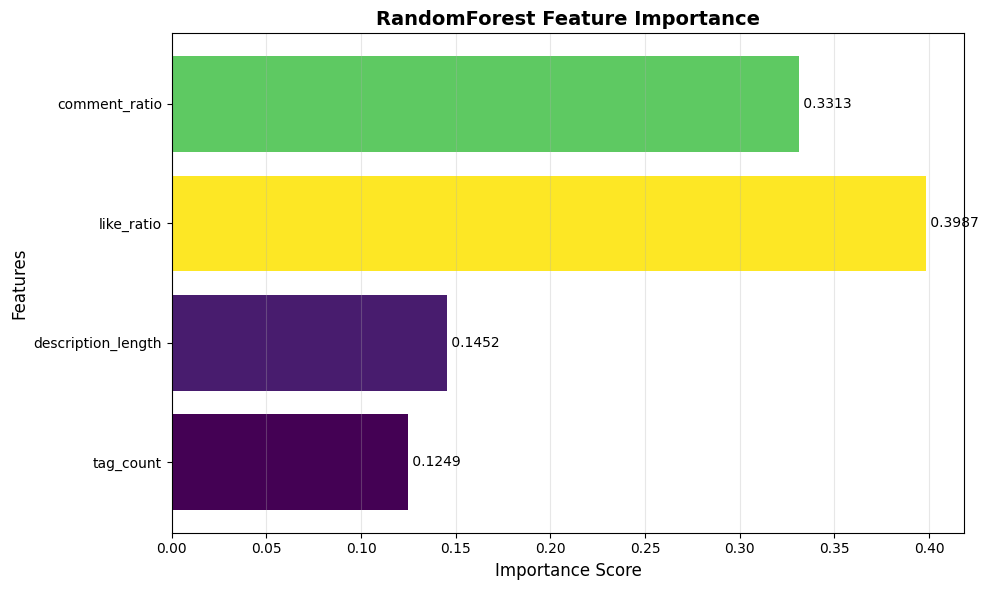
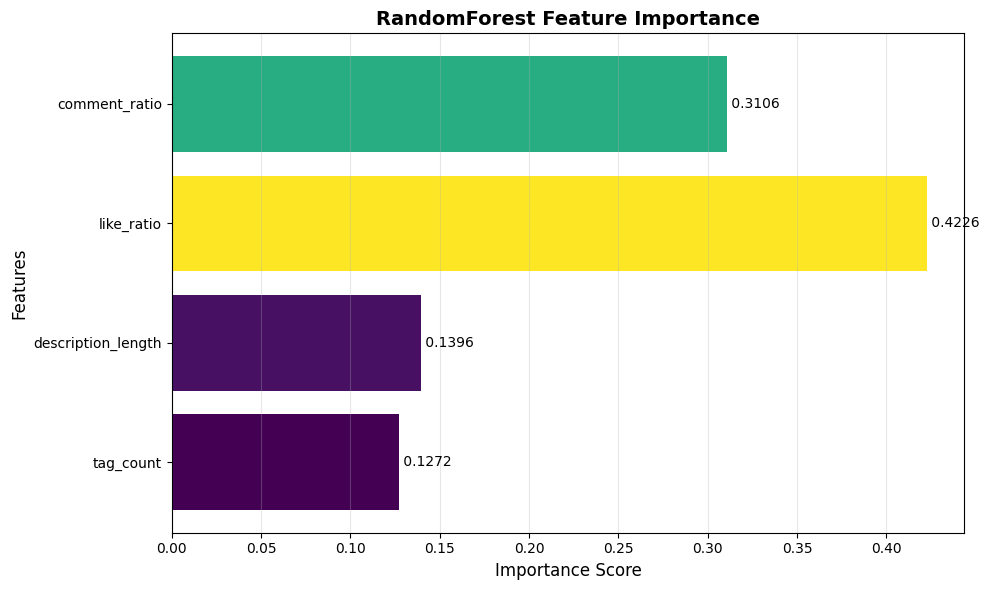
Fix dataset

diff --git a/DS200.M21-Big-Data/FINAL PROJECT/app/producer_youtube.py b/DS200.M21-Big-Data/FINAL PROJECT/app/producer_youtube.py
@@ -5,12 +5,33 @@ Simulates real-time video uploads and publishes them to Kafka.
 
 Usage:
     python3 -m app.producer_youtube --kafka-servers localhost:9092 --topic youtube_videos --rate 1
+    python3 -m app.producer_youtube --source youtube-api --query "music" --poll-interval 60
 """
 import argparse
 import json
+import os
 import time
 import random
-from datetime import datetime
+from datetime import datetime, timezone
+
+import requests
+
+
+def load_env_file(env_path: str = ".env"):
+    """Load KEY=VALUE pairs from a local .env file into environment variables."""
+    if not os.path.isfile(env_path):
+        return
+
+    with open(env_path, "r", encoding="utf-8") as f:
+        for line in f:
+            stripped = line.strip()
+            if not stripped or stripped.startswith("#") or "=" not in stripped:
+                continue
+            key, value = stripped.split("=", 1)
+            key = key.strip()
+            value = value.strip().strip('"').strip("'")
+            if key and key not in os.environ:
+                os.environ[key] = value
 
 def create_synthetic_video():
     """Generate a synthetic YouTube video record."""
@@ -27,7 +48,7 @@ def create_synthetic_video():
     
     return {
         "video_id": video_id,
-        "event_time": datetime.utcnow().isoformat(timespec="seconds") + "Z",
+        "event_time": datetime.now(timezone.utc).isoformat(timespec="seconds").replace("+00:00", "Z"),
         "title": random.choice(titles) + f" #{random.randint(1, 1000)}",
         "view_count": random.randint(100, 1000000),
         "like_count": random.randint(10, 100000),
@@ -37,17 +58,98 @@ def create_synthetic_video():
     }
 
 
+def fetch_youtube_video_ids(api_key, query, region_code="US", max_results=10):
+    """Fetch candidate video IDs using YouTube search.list."""
+    url = "https://www.googleapis.com/youtube/v3/search"
+    params = {
+        "key": api_key,
+        "part": "snippet",
+        "type": "video",
+        "q": query,
+        "order": "date",
+        "regionCode": region_code,
+        "maxResults": max(1, min(int(max_results), 50)),
+    }
+    resp = requests.get(url, params=params, timeout=30)
+    resp.raise_for_status()
+    payload = resp.json()
+    items = payload.get("items", [])
+
+    ids = []
+    for item in items:
+        video_id = item.get("id", {}).get("videoId")
+        if video_id:
+            ids.append(video_id)
+    return ids
+
+
+def fetch_youtube_video_details(api_key, video_ids):
+    """Fetch detailed metadata via YouTube videos.list and map to Kafka schema."""
+    if not video_ids:
+        return []
+
+    url = "https://www.googleapis.com/youtube/v3/videos"
+    params = {
+        "key": api_key,
+        "part": "snippet,statistics",
+        "id": ",".join(video_ids[:50]),
+        "maxResults": min(len(video_ids), 50),
+    }
+    resp = requests.get(url, params=params, timeout=30)
+    resp.raise_for_status()
+    payload = resp.json()
+    items = payload.get("items", [])
+
+    results = []
+    for item in items:
+        snippet = item.get("snippet", {})
+        stats = item.get("statistics", {})
+        tags = snippet.get("tags") or []
+        if not isinstance(tags, list):
+            tags = []
+
+        results.append({
+            "video_id": item.get("id", ""),
+            "event_time": datetime.now(timezone.utc).isoformat(timespec="seconds").replace("+00:00", "Z"),
+            "title": snippet.get("title", ""),
+            "view_count": int(stats.get("viewCount", 0) or 0),
+            "like_count": int(stats.get("likeCount", 0) or 0),
+            "comment_count": int(stats.get("commentCount", 0) or 0),
+            "video_tags": "|".join(tags),
+            "description": snippet.get("description", ""),
+        })
+
+    return results
+
+
 def main():
     """Main producer loop."""
     parser = argparse.ArgumentParser(description="Kafka producer for YouTube videos")
     parser.add_argument("--kafka-servers", default="localhost:9092", help="Kafka broker addresses")
     parser.add_argument("--topic", default="youtube_videos", help="Kafka topic to publish to")
+    parser.add_argument("--source", choices=["synthetic", "youtube-api"], default="synthetic",
+        help="Data source mode: synthetic generator or YouTube Data API")
     parser.add_argument("--rate", type=float, default=1.0, 
         help="Publish rate (videos per second). Use 0.5 for 1 video every 2 seconds")
+    parser.add_argument("--poll-interval", type=float, default=60.0,
+        help="Polling interval in seconds for YouTube API mode")
     parser.add_argument("--num-messages", type=int, default=None,
         help="Number of messages to send (None = infinite)")
+    parser.add_argument("--query", default="trending",
+        help="Search query for YouTube API mode")
+    parser.add_argument("--region-code", default="US",
+        help="Region code for YouTube API search (e.g., US, VN)")
+    parser.add_argument("--max-results", type=int, default=10,
+        help="Max videos fetched per API poll (1-50)")
     
     args = parser.parse_args()
+
+    load_env_file()
+
+    youtube_api_key = os.environ.get("YOUTUBE_API_KEY", "")
+    if args.source == "youtube-api" and not youtube_api_key:
+        print("✗ YOUTUBE_API_KEY is not set. Put it in .env or export it in your shell.")
+        return False
     
     try:
         from kafka import KafkaProducer
@@ -69,33 +171,80 @@ def main():
         return False
     
     print(f"\n=== YouTube Video Producer ===")
+    print(f"Source: {args.source}")
     print(f"Topic: {args.topic}")
-    print(f"Rate: {args.rate} videos/second")
+    if args.source == "synthetic":
+        print(f"Rate: {args.rate} videos/second")
+    else:
+        print(f"Polling every: {args.poll_interval} seconds")
+        print(f"Query: {args.query} | Region: {args.region_code} | Max results: {args.max_results}")
     print(f"Messages: {'infinite' if args.num_messages is None else args.num_messages}")
     print(f"\nPress Ctrl+C to stop.\n")
     
     message_count = 0
     interval = 1.0 / args.rate if args.rate > 0 else 1.0
+    sent_video_ids = set()
     
     try:
         while True:
             if args.num_messages and message_count >= args.num_messages:
                 print(f"\n✓ Sent {message_count} messages. Stopping.")
                 break
-            
-            video = create_synthetic_video()
-            
-            # Send to Kafka
-            try:
-                producer.send(args.topic, value=video)
-                message_count += 1
-                timestamp = datetime.now().strftime("%H:%M:%S")
-                print(f"[{timestamp}] #{message_count:04d} Published: {video['video_id']} ({video['view_count']:,} views, {video['like_count']:,} likes)")
-                
-                # Wait before next message
-                time.sleep(interval)
-            except Exception as e:
-                print(f"✗ Failed to send message: {e}")
+
+            if args.source == "synthetic":
+                video = create_synthetic_video()
+
+                try:
+                    producer.send(args.topic, value=video)
+                    message_count += 1
+                    timestamp = datetime.now().strftime("%H:%M:%S")
+                    print(f"[{timestamp}] #{message_count:04d} Published: {video['video_id']} ({video['view_count']:,} views, {video['like_count']:,} likes)")
+                    time.sleep(interval)
+                except Exception as e:
+                    print(f"✗ Failed to send message: {e}")
+            else:
+                try:
+                    ids = fetch_youtube_video_ids(
+                        youtube_api_key,
+                        query=args.query,
+                        region_code=args.region_code,
+                        max_results=args.max_results,
+                    )
+                    videos = fetch_youtube_video_details(youtube_api_key, ids)
+
+                    published_in_this_poll = 0
+                    for video in videos:
+                        if not video.get("video_id") or video["video_id"] in sent_video_ids:
+                            continue
+
+                        producer.send(args.topic, value=video)
+                        sent_video_ids.add(video["video_id"])
+                        message_count += 1
+                        published_in_this_poll += 1
+                        timestamp = datetime.now().strftime("%H:%M:%S")
+                        print(f"[{timestamp}] #{message_count:04d} Published(API): {video['video_id']} ({video['view_count']:,} views, {video['like_count']:,} likes)")
+
+                        if args.num_messages and message_count >= args.num_messages:
+                            break
+
+                    if published_in_this_poll == 0:
+                        timestamp = datetime.now().strftime("%H:%M:%S")
+                        print(f"[{timestamp}] No new videos from API in this poll.")
+
+                    if args.num_messages and message_count >= args.num_messages:
+                        print(f"\n✓ Sent {message_count} messages. Stopping.")
+                        break
+
+                    time.sleep(max(args.poll_interval, 1.0))
+                except requests.HTTPError as e:
+                    print(f"✗ YouTube API HTTP error: {e}")
+                    time.sleep(max(args.poll_interval, 5.0))
+                except requests.RequestException as e:
+                    print(f"✗ YouTube API network error: {e}")
+                    time.sleep(max(args.poll_interval, 5.0))
+                except Exception as e:
+                    print(f"✗ API mode failure: {e}")
+                    time.sleep(max(args.poll_interval, 5.0))
     
     except KeyboardInterrupt:
         print(f"\n\n✓ Producer stopped by user. Sent {message_count} messages total.")

diff --git a/DS200.M21-Big-Data/FINAL PROJECT/app/streaming_spark.py b/DS200.M21-Big-Data/FINAL PROJECT/app/streaming_spark.py
@@ -197,6 +197,7 @@ class KafkaStreamingPipeline:
             DataFrame with predictions (video_id, title, prediction, probability)
         """
         from pyspark.sql import functions as F
+        from pyspark.ml.functions import vector_to_array
 
         if not self.model:
             print("⚠ Model not loaded. Stream will pass through engineered features without predictions.")
@@ -212,8 +213,9 @@ class KafkaStreamingPipeline:
             # Extract prediction and probability
             predictions = predictions \
                 .withColumn("trending", F.col("prediction").cast("integer")) \
-                .withColumn("prob_not_trending", F.round(F.col("probability")[0], 4)) \
-                .withColumn("prob_trending", F.round(F.col("probability")[1], 4)) \
+                .withColumn("probability_array", vector_to_array(F.col("probability"))) \
+                .withColumn("prob_not_trending", F.round(F.col("probability_array")[0], 4)) \
+                .withColumn("prob_trending", F.round(F.col("probability_array")[1], 4)) \
                 .select("video_id", "event_time", "title", "engagement", "trending", 
                     "prob_not_trending", "prob_trending")
             

diff --git a/DS200.M21-Big-Data/FINAL PROJECT/README_YOUTUBE.md b/DS200.M21-Big-Data/FINAL PROJECT/README_YOUTUBE.md
@@ -136,8 +136,77 @@ Output:
 ## PySpark Configuration
 For realtime streaming, set the Kafka connector package before starting Spark:
 ```bash
-export SPARK_KAFKA_PACKAGES="org.apache.spark:spark-sql-kafka-0-10_2.12:3.5.1"
+export SPARK_KAFKA_PACKAGES="org.apache.spark:spark-sql-kafka-0-10_2.13:4.1.1"
 ```
+
+## Streaming Run Checklist
+
+Use this checklist when running the realtime pipeline end-to-end on Linux:
+
+1. Start ZooKeeper.
+```bash
+cd ~/kafka
+bin/zookeeper-server-start.sh config/zookeeper.properties
+```
+
+2. Start the Kafka broker.
+```bash
+cd ~/kafka
+bin/kafka-server-start.sh config/server.properties
+```
+
+3. Create the Kafka topics.
+```bash
+cd ~/kafka
+bin/kafka-topics.sh --create --bootstrap-server localhost:9092 \
+  --topic youtube_videos --partitions 1 --replication-factor 1
+bin/kafka-topics.sh --create --bootstrap-server localhost:9092 \
+  --topic youtube_predictions --partitions 1 --replication-factor 1
+```
+
+4. Make sure the batch model exists.
+```bash
+cd "/home/thinh/Documents/IS_BigData/DS200.M21-Big-Data/FINAL PROJECT"
+export JAVA_HOME=/usr/lib/jvm/java-17-openjdk-amd64
+export SPARK_HOME=/home/thinh/spark
+export PYTHONPATH="$PWD:$SPARK_HOME/python:$SPARK_HOME/python/lib/pyspark.zip:$SPARK_HOME/python/lib/py4j-0.10.9.9-src.zip"
+export SPARK_KAFKA_PACKAGES="org.apache.spark:spark-sql-kafka-0-10_2.13:4.1.1"
+
+python3 -m app.app_spark --data app/data_final/youtube_large_sample.csv \
+  --no-sample --save-model /tmp/rf_model
+```
+
+5. Start the streaming job.
+```bash
+cd "/home/thinh/Documents/IS_BigData/DS200.M21-Big-Data/FINAL PROJECT"
+export JAVA_HOME=/usr/lib/jvm/java-17-openjdk-amd64
+export SPARK_HOME=/home/thinh/spark
+export SPARK_LOCAL_HOSTNAME=localhost
+export PYTHONPATH="$PWD:$SPARK_HOME/python:$SPARK_HOME/python/lib/pyspark.zip:$SPARK_HOME/python/lib/py4j-0.10.9.9-src.zip"
+export SPARK_KAFKA_PACKAGES="org.apache.spark:spark-sql-kafka-0-10_2.13:4.1.1"
+
+python3 -m app.streaming_spark --kafka-servers localhost:9092 \
+  --input-topic youtube_videos \
+  --output-topic youtube_predictions \
+  --model-path /tmp/rf_model \
+  --output kafka
+```
+
+6. Start the consumer.
+```bash
+cd "/home/thinh/Documents/IS_BigData/DS200.M21-Big-Data/FINAL PROJECT"
+python3 -m app.consumer_predictions --kafka-servers localhost:9092 --topic youtube_predictions
+```
+
+7. Start the producer after the streaming job is already listening.
+```bash
+cd "/home/thinh/Documents/IS_BigData/DS200.M21-Big-Data/FINAL PROJECT"
+python3 -m app.producer_youtube --kafka-servers localhost:9092 --topic youtube_videos --rate 1 --num-messages 5
+```
+
+8. Confirm the consumer prints `TRENDING` or `NOT TRENDING` lines.
+
+9. Stop the terminals in reverse order when you finish.
 
 ## Data Processing Pipeline
 
@@ -202,7 +271,7 @@ The optimized Spark ML pipeline (RandomForest) achieves:
 **Solution:** Run `pip install -r requirements.txt`
 
 ### Issue: Kafka connector not found
-**Solution:** Set `SPARK_KAFKA_PACKAGES=org.apache.spark:spark-sql-kafka-0-10_2.12:3.5.1` before starting streaming
+**Solution:** Set `SPARK_KAFKA_PACKAGES=org.apache.spark:spark-sql-kafka-0-10_2.13:4.1.1` before starting streaming
 
 ## Future Improvements
 